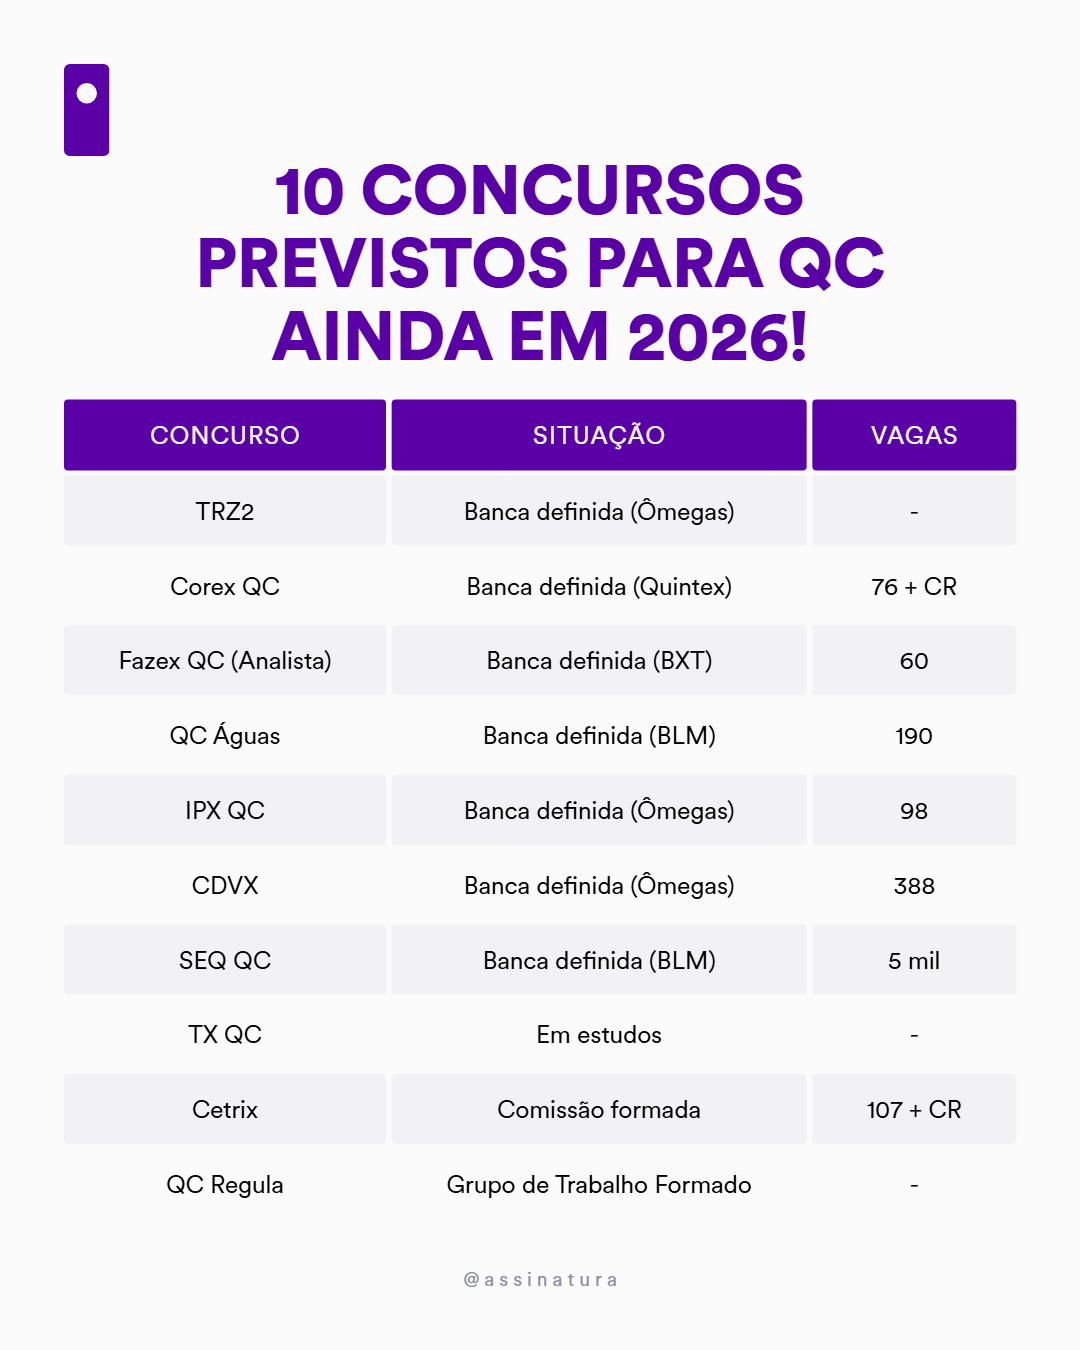
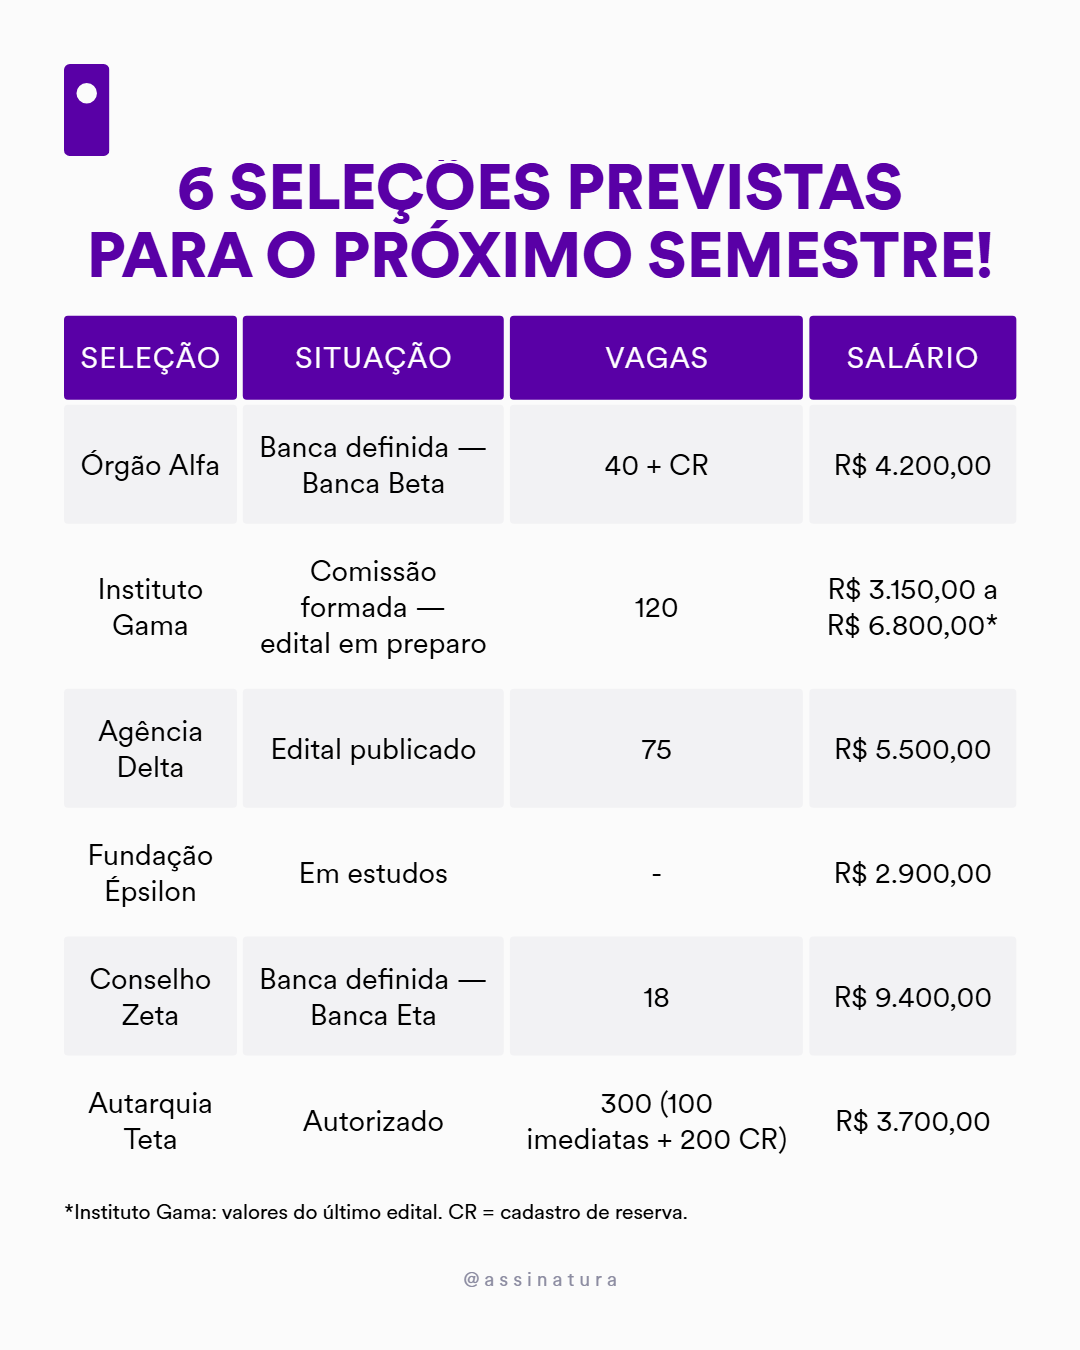
Bump tabela to v1.3.0 (#24)
* feat: bump tabela to v1.3.0

* feat: TYTO-778 render the tabela preview at v1.3.0

The nota-e-quebra example, which shows a note under the table and a break inside a cell; rendered without the brand kit.

---------

diff --git a/README.md b/README.md
@@ -31,7 +31,7 @@ index; which list a machine trusts is the person's choice.
 
 | id                  | latest | configurations    |
 | ------------------- | ------ | ----------------- |
-| tabela              | v1.2.0 | roxo              |
+| tabela              | v1.3.0 | roxo              |
 | agenda-semana       | v1.1.0 |                   |
 | aprovados           | v1.1.0 |                   |
 | simulados-semana    | v1.0.1 | roxo, ocre, vinho |
